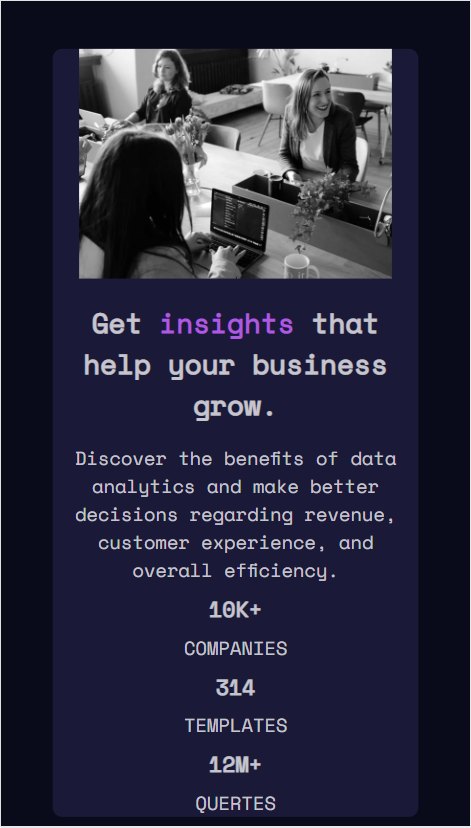
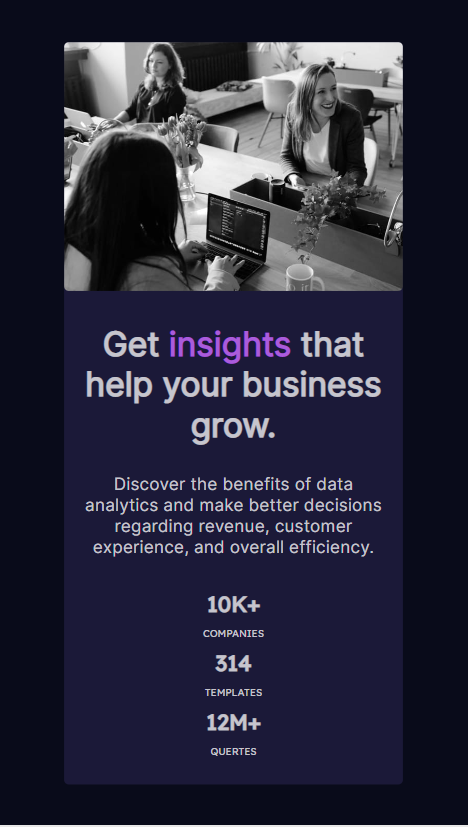
Ejercicio corregido

Changed region(s): [[0.0897, 0.0302, 0.8974, 0.9976], [0.9872, 0.0, 1.0, 0.9976], [0.0, 0.0, 0.0299, 0.0302]]

diff --git a/scr/index.html b/scr/index.html
@@ -5,28 +5,31 @@
     <link href="styles.css" rel="stylesheet" type="text/css">
     <link rel="preconnect" href="https://fonts.googleapis.com">
     <link rel="preconnect" href="https://fonts.gstatic.com" crossorigin>
-    <link href="https://fonts.googleapis.com/css2?family=Space+Mono&display=swap" rel="stylesheet">
+    <link href="https://fonts.googleapis.com/css2?family=Inter&display=swap" rel="stylesheet">
+    <link href="https://fonts.googleapis.com/css2?family=Lexend+Deca&display=swap" rel="stylesheet">
   </head>
   <body>
     <div class="main">
       <section class="img">
         <img alt= "card" src="image.jpg"> 
       </section>
-      <section class="conteiner1">
-        <h1 id="title"><b>Get <span style="color:hsl(277, 64%, 61%)">insights</span> that help your business grow.</b></h1>
-        <p>Discover the benefits of data analytics and make better decisions regarding revenue, customer experience, and overall efficiency.</p>
+      <section class="conteinerText">
+        <div class="text">
+          <h1 id="title"><b>Get <span style="color:hsl(277, 64%, 61%)">insights</span> that help your business grow.</b></h1>
+          <p>Discover the benefits of data analytics and make better decisions regarding revenue, customer experience, and overall efficiency.</p>
+        </div>
         <div class="stadistics">
           <div class="singleStadistic">
             <h2> <b>10K+</b></h2>
-            <p>COMPANIES</p>
+            <p class="stadisticsRelated">COMPANIES</p>
           </div>
           <div class="singleStadistic">
             <h2><b>314</b></h2>
-            <p>TEMPLATES</p>
+            <p class="stadisticsRelated">TEMPLATES</p>
           </div>
           <div class="singleStadistic">
             <h2><b>12M+</b></h2>
-            <p>QUERTES</p>
+            <p class="stadisticsRelated">QUERTES</p>
           </div>
         </div>
       </section>

diff --git a/scr/styles.css b/scr/styles.css
@@ -4,8 +4,14 @@ body {
 
 .main {
     background-color: hsl(244, 38%, 16%);
-    margin: 100px;
-    border-radius: 20px;
+    margin: 5.5em 8em;
+    border-radius: 10px;
+}
+
+img {
+    border-radius: 10px;
+    width: 100%;
+    height: 100%;
 }
 
 .img {
@@ -14,35 +20,75 @@ body {
     text-align: center;
 }
 
-.conteiner1 {
+.conteinerText {
     color: hsla(0, 0%, 100%, 0.75);
-    font-size: 15px;
     justify-content: center;
     justify-items: center;
     text-align: center;
-    font-family: 'Space Mono', monospace;
+    font-family: 'Inter', sans-serif;
     font-weight: 400;
 }
 
 #title {
-    font-size: 48px;
+    font-size: 70px;
 }
 
+.text{
+    margin: 2em;
+    font-size: 14px;
+    margin-bottom: 5em;
+}
+
+.stadistics {
+    font-family: 'Lexend Deca', sans-serif;
+    padding-bottom: 3em;
+}
+
+.stadisticsRelated {
+    font-size: 8px;
+}
+
+
 @media (min-width: 1440px){
+    
     .main {
         display: flex;
-        flex-direction: row-reverse;
+        flex-direction: row-reverse;   
+        width: 70%;
+        margin: 7.5em 4em;
     }
 
     .stadistics {
         display: flex;
         flex-direction: row;
-        text-align: center;
-        justify-content: center;
-        justify-items: center;
     }
 
-    .singleStadistic {
-        padding: 5px;
+    .singleStadistic {  
+        padding-left: 3em;
+        padding-right: 8em;
     }
+
+    .stadisticsRelated {
+        font-size: 10px;
+    }
+
+    .conteinerText {
+        justify-content:left;
+        justify-items: left;
+        text-align: left;
+    }   
+
+    .text {
+        font-size: 25px;
+        margin-bottom: 2em;
+    }
+
+    #title {
+        font-size: 55px;
+    }
+
+    img {
+        width: 200%;
+    }
+
 }

diff --git a/README.md b/README.md
@@ -45,6 +45,12 @@ First we organized the HTML structure for the mobile design, then we added the l
 
 - flex direction property to order and display the items as needed.
 
+```
+	display: flex;
+    flex-direction: row-reverse; 
+		
+```
+
 
 ### Useful resources
 
